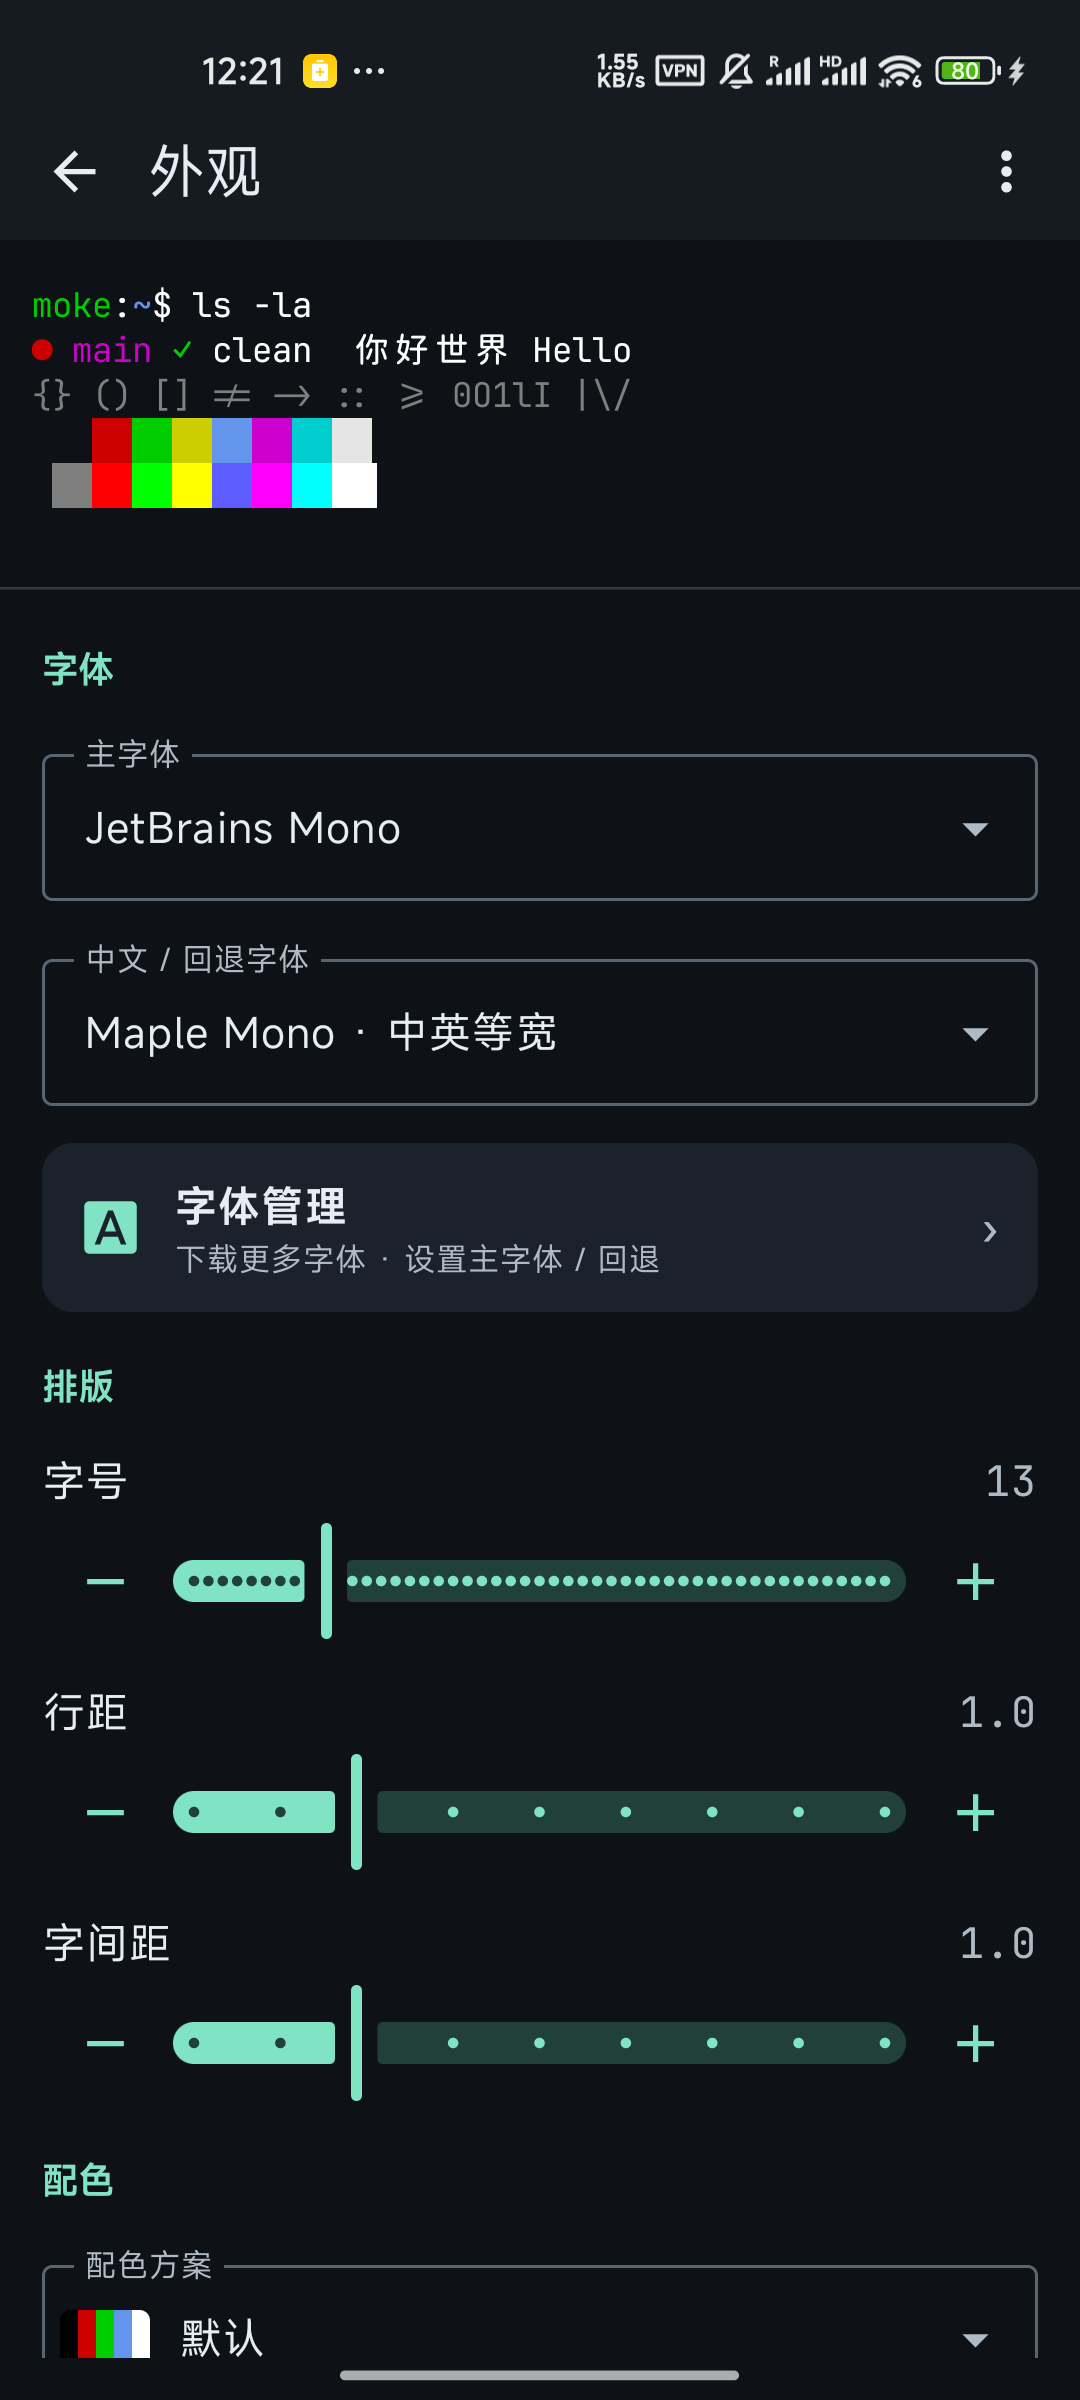
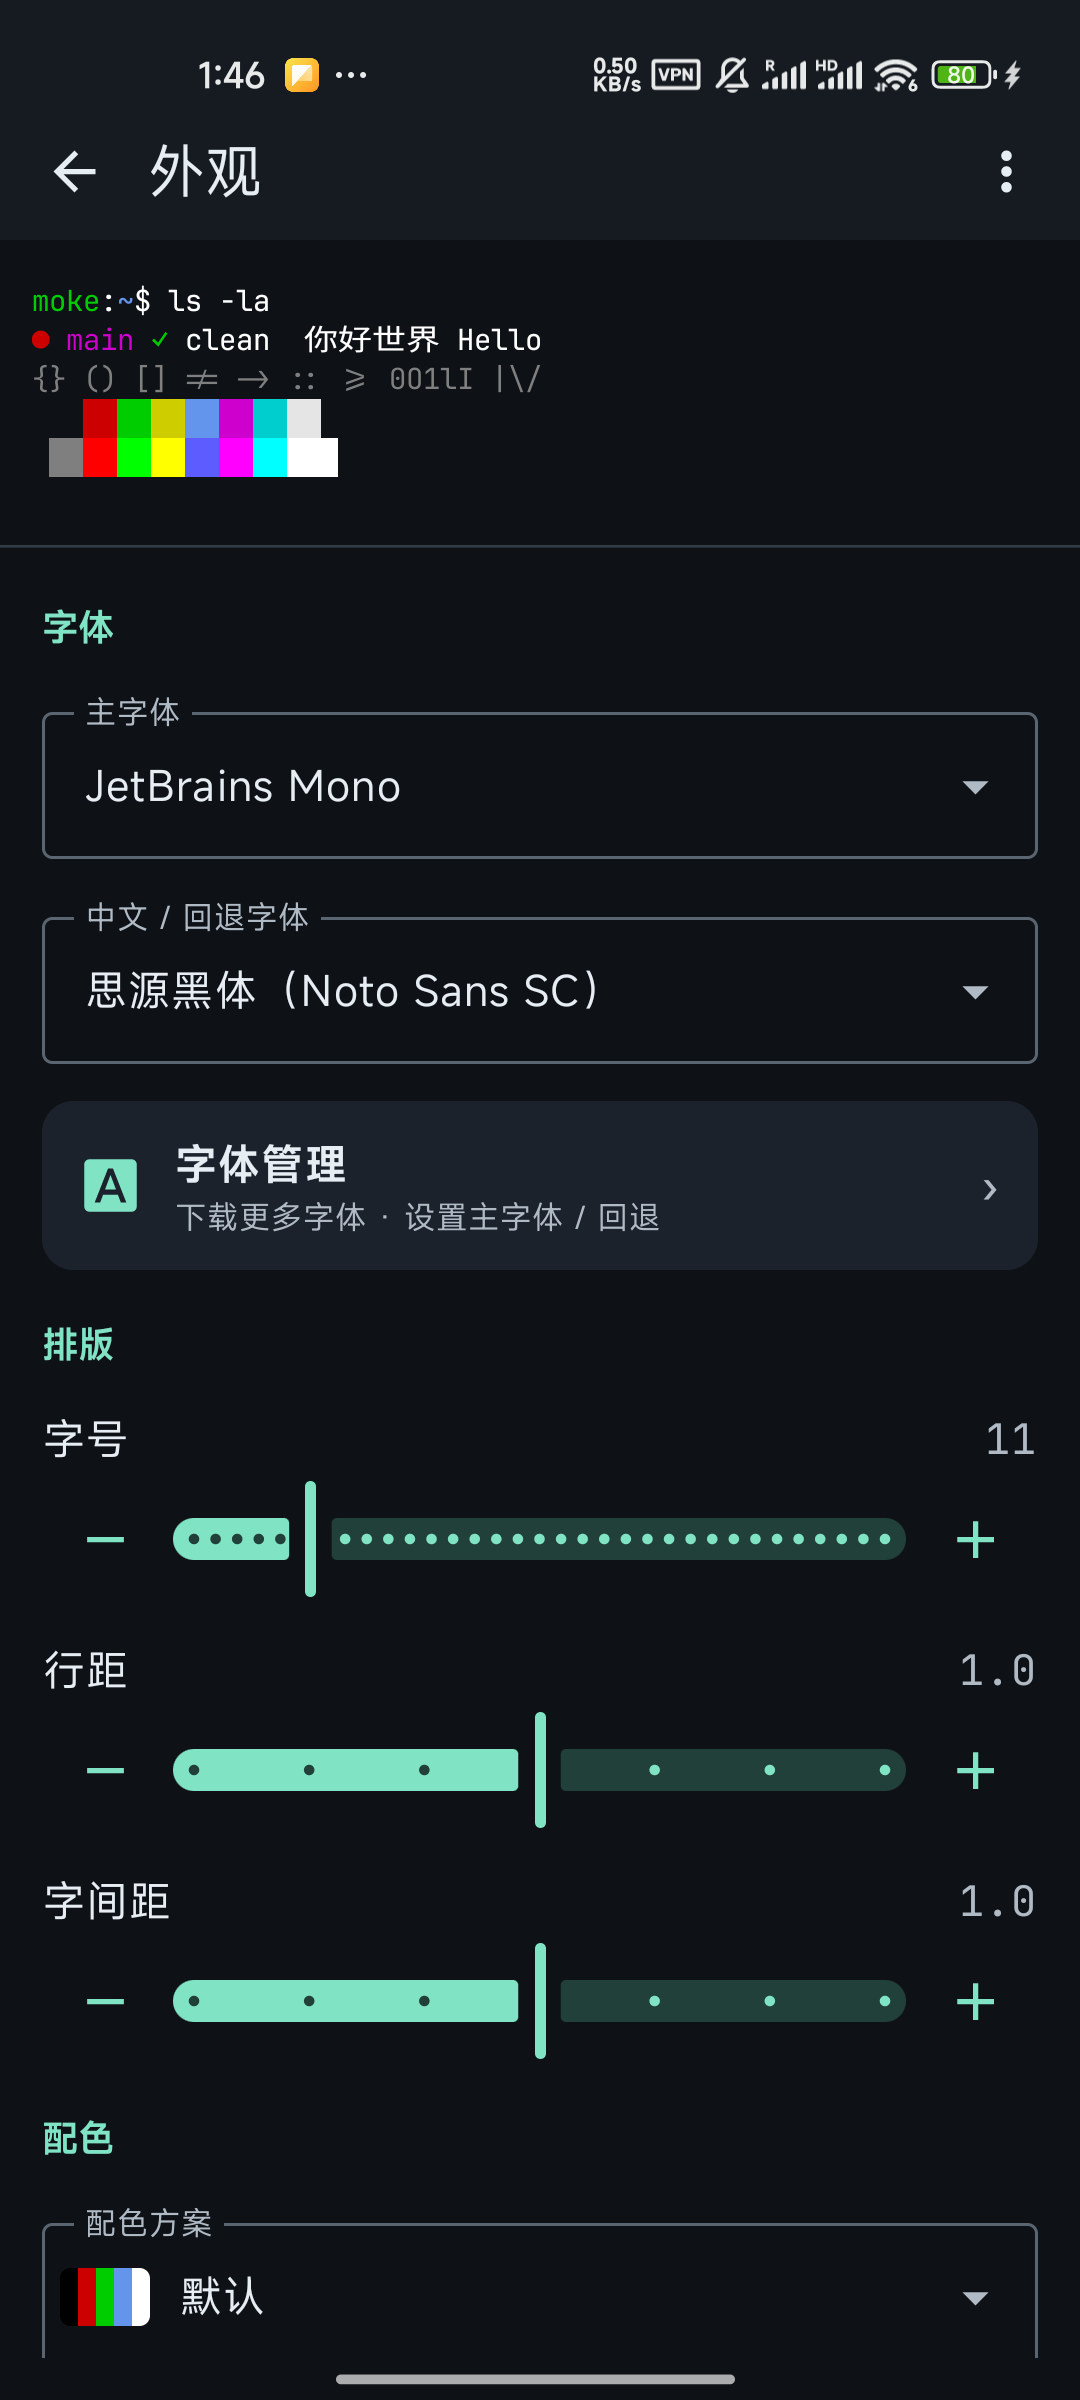
feat(ux): v0.1.3 排版滑块范围优化（行距/字间距居中 · 字号上限 24）
- 行距 / 字间距范围改为绕 1.0 对称（0.7–1.3），默认值落在滑轨正中。
- 字号上限收窄至 24（8–24），滑轨都落在实际可用区间；捏合缩放上限同步为 24。
- 更新外观截图（体现居中后的默认滑块位置）。

diff --git a/app/src/main/java/com/briqt/moke/ui/AppearanceScreen.kt b/app/src/main/java/com/briqt/moke/ui/AppearanceScreen.kt
@@ -234,8 +234,8 @@ fun AppearanceScreen(
                     label = "字号",
                     valueText = fmtFontSize(fontSizeSp),
                     value = fontSizeSp,
-                    valueRange = 8f..32f,
-                    steps = 47,
+                    valueRange = 8f..24f,
+                    steps = 31,
                     onValue = onFontSize,
                     onMinus = { onFontSize(fontSizeSp - 0.5f) },
                     onPlus = { onFontSize(fontSizeSp + 0.5f) },
@@ -244,21 +244,21 @@ fun AppearanceScreen(
                     label = "行距",
                     valueText = String.format("%.1f", lineSpacing),
                     value = lineSpacing,
-                    valueRange = 0.8f..1.6f,
-                    steps = 7,
+                    valueRange = 0.7f..1.3f,
+                    steps = 5,
                     onValue = onLineSpacing,
-                    onMinus = { onLineSpacing((lineSpacing - 0.1f).coerceIn(0.8f, 1.6f)) },
-                    onPlus = { onLineSpacing((lineSpacing + 0.1f).coerceIn(0.8f, 1.6f)) },
+                    onMinus = { onLineSpacing((lineSpacing - 0.1f).coerceIn(0.7f, 1.3f)) },
+                    onPlus = { onLineSpacing((lineSpacing + 0.1f).coerceIn(0.7f, 1.3f)) },
                 )
                 SliderRow(
                     label = "字间距",
                     valueText = String.format("%.1f", letterSpacing),
                     value = letterSpacing,
-                    valueRange = 0.8f..1.6f,
-                    steps = 7,
+                    valueRange = 0.7f..1.3f,
+                    steps = 5,
                     onValue = onLetterSpacing,
-                    onMinus = { onLetterSpacing((letterSpacing - 0.1f).coerceIn(0.8f, 1.6f)) },
-                    onPlus = { onLetterSpacing((letterSpacing + 0.1f).coerceIn(0.8f, 1.6f)) },
+                    onMinus = { onLetterSpacing((letterSpacing - 0.1f).coerceIn(0.7f, 1.3f)) },
+                    onPlus = { onLetterSpacing((letterSpacing + 0.1f).coerceIn(0.7f, 1.3f)) },
                 )
 
                 SectionHeader("配色")

diff --git a/app/src/main/java/com/briqt/moke/data/SettingsStore.kt b/app/src/main/java/com/briqt/moke/data/SettingsStore.kt
@@ -38,15 +38,15 @@ class SettingsStore(private val context: Context) {
     private val extraKeysVisibleKey = booleanPreferencesKey("extra_keys_visible")
 
     companion object {
-        // 字号（sp）：默认 11，0.5 步进；范围 8–32。
+        // 字号（sp）：默认 11，0.5 步进；范围 8–24（上限收窄，24sp 在手机上已很大，避免滑轨大半落在不可用大字号）。
         const val DEFAULT_FONT_SIZE_SP = 11f
         const val MIN_FONT_SIZE_SP = 8f
-        const val MAX_FONT_SIZE_SP = 32f
+        const val MAX_FONT_SIZE_SP = 24f
         const val FONT_SIZE_STEP = 0.5f
-        // 行距/字间距：1.0=默认；以 0.1 步进微调。
+        // 行距/字间距：1.0=默认；范围绕 1.0 对称（0.7–1.3），默认落在滑轨正中；以 0.1 步进微调。
         const val DEFAULT_SPACING = 1.0f
-        const val MIN_SPACING = 0.8f
-        const val MAX_SPACING = 1.6f
+        const val MIN_SPACING = 0.7f
+        const val MAX_SPACING = 1.3f
         // 默认字体（"恢复默认"目标；与 FontCatalog 保持一致）。
         const val DEFAULT_FALLBACK_FONT_ID = "noto_sans_sc"
 

diff --git a/app/src/main/java/com/briqt/moke/terminal/TerminalController.kt b/app/src/main/java/com/briqt/moke/terminal/TerminalController.kt
@@ -120,6 +120,6 @@ class TerminalController(
         const val DEFAULT_FONT_SIZE_SP = 11f
         const val FONT_SIZE_STEP = 0.5f
         const val MIN_FONT_SIZE_SP = 8f
-        const val MAX_FONT_SIZE_SP = 32f
+        const val MAX_FONT_SIZE_SP = 24f
     }
 }

diff --git a/CHANGELOG.md b/CHANGELOG.md
@@ -2,6 +2,10 @@
 
 本项目遵循 [语义化版本](https://semver.org/lang/zh-CN/)。
 
+## [0.1.3]
+
+- **排版滑块**：行距 / 字间距范围改为绕 1.0 对称（0.7–1.3），默认值落在滑轨正中；字号上限收窄至 24（8–24），滑轨都落在实际可用区间。捏合缩放上限同步为 24。
+
 ## [0.1.2]
 
 - **外观**：设置页按「字体 / 排版 / 配色 / 光标」分组；字号 / 行距 / 字间距改为滑块 + 步进微调；新增「恢复默认」（可撤销）；实时预览修复色带丢失并按内容收敛高度。